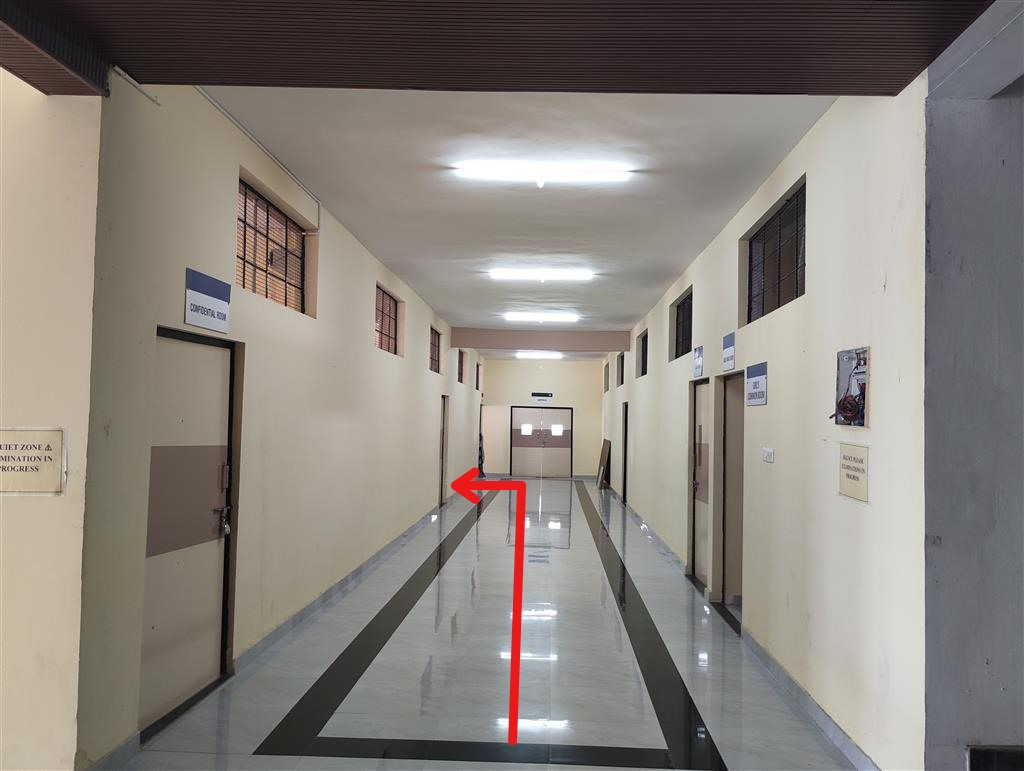
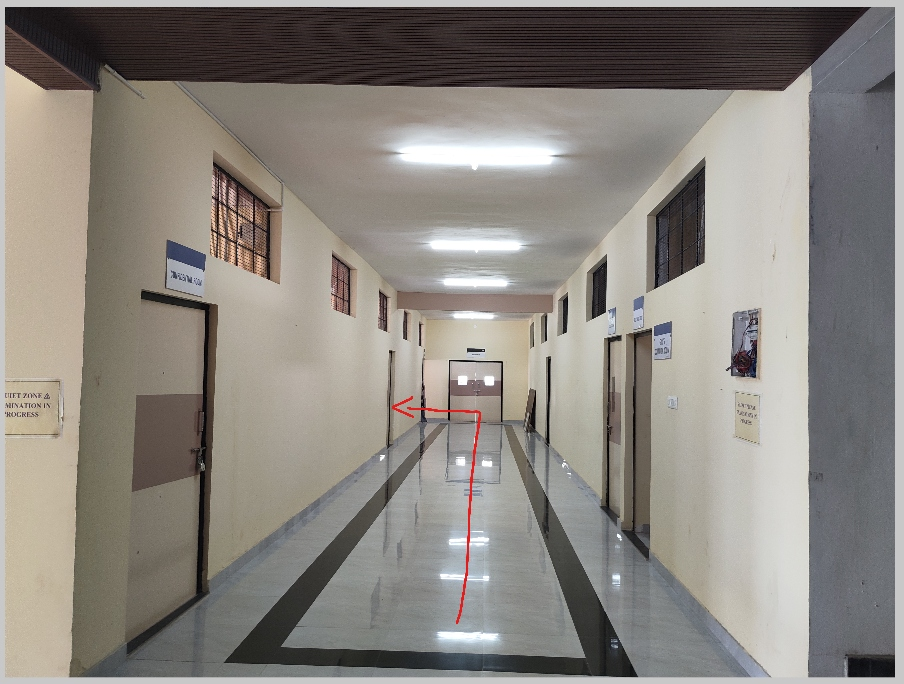
feat: add Maharaja Institute of Ayurveda Medical Sciences & Hospital walkthrough, update pharmacy corridor photos, and clean portal UI

diff --git a/index.html b/index.html
@@ -2002,24 +2002,7 @@
       </p>
     </div>
 
-    <!-- Universal Instant Teleport Search Hub -->
-    <div class="navigo-search-hub">
-      <div class="navigo-search-box">
-        <svg viewBox="0 0 24 24" class="navigo-search-icon" aria-hidden="true">
-          <path fill="currentColor" d="M15.5 14h-.79l-.28-.27A6.471 6.471 0 0 0 16 9.5 6.5 6.5 0 1 0 9.5 16c1.61 0 3.09-.59 4.23-1.57l.27.28v.79l5 4.99L20.49 19l-4.99-5zm-6 0C7.01 14 5 11.99 5 9.5S7.01 5 9.5 5 14 7.01 14 9.5 11.99 14 9.5 14z"/>
-        </svg>
-        <input
-          type="text"
-          id="portalSearchInput"
-          class="navigo-search-input"
-          placeholder="Search any room or lab campus-wide (e.g. 102, 205, Belaku, Board Room, CAD)..."
-          autocomplete="off"
-        />
-      </div>
 
-      <!-- Live Instant Autocomplete Dropdown Matrix -->
-      <div id="portalSearchDropdown" class="portal-suggest-dropdown" style="display: none;" role="listbox"></div>
-    </div>
 
     <!-- Navigation Mode Switcher Bar (3 Functional Views) -->
     <div class="navigo-mode-nav" role="tablist">
@@ -2041,15 +2024,7 @@
          VIEW 1: ACADEMIC WINGS WITH DIRECT FAST-LAUNCHERS
          ======================================================================== -->
     <div id="viewModeWings" class="nav-view-panel">
-      <!-- Wing Sub-filters -->
-      <div class="wings-filter-wrap" role="tablist" aria-label="Campus Building Categories">
-        <button type="button" class="wing-filter-chip active" data-portal-filter="all">All Wings (5)</button>
-        <button type="button" class="wing-filter-chip" data-portal-filter="engineering">Engineering Block (60)</button>
-        <button type="button" class="wing-filter-chip" data-portal-filter="mba">Department of MBA</button>
-        <button type="button" class="wing-filter-chip" data-portal-filter="mca">Department of MCA</button>
-        <button type="button" class="wing-filter-chip" data-portal-filter="bca">Department of BCA</button>
-        <button type="button" class="wing-filter-chip" data-portal-filter="pharmacy">Pharmacy &amp; Nursing</button>
-      </div>
+
 
       <div class="wings-grid" id="wingsGrid">
         <!-- 1. Engineering Academic Block -->
@@ -2096,15 +2071,7 @@
               Master of Business Administration block featuring Belaku (ಬೆಳಕು) auditorium, Centre for Future Skills, Board Room, faculty chambers, and smart lecture suites.
             </p>
 
-            <div class="wing-fast-actions-label">Direct Destination Teleport:</div>
-            <div class="wing-fast-chips">
-              <button type="button" class="wing-fast-chip primary-spot" data-direct-room="Belaku">Belaku (Auditorium)</button>
-              <button type="button" class="wing-fast-chip primary-spot" data-direct-room="MBA MCA Lab">MBA / MCA Lab (201)</button>
-              <button type="button" class="wing-fast-chip primary-spot" data-direct-room="Centre for Future Skills">Centre for Future Skills</button>
-              <button type="button" class="wing-fast-chip primary-spot" data-direct-room="2">Board Room (Room 2)</button>
-              <button type="button" class="wing-fast-chip" data-direct-room="1">Staff Room (Room 1)</button>
-              <button type="button" class="wing-fast-chip" data-direct-room="102">Room 102</button>
-            </div>
+
 
             <div class="wing-footer">
               <button type="button" class="wing-primary-btn" data-btn-college="mba">
@@ -2128,14 +2095,7 @@
               Master of Computer Applications division featuring modern lecture halls (MCA LH 1, LH 2, LH 3, LH 4), computing laboratories (MCA Lab 1), and software engineering studios.
             </p>
 
-            <div class="wing-fast-actions-label">Direct Destination Teleport:</div>
-            <div class="wing-fast-chips">
-              <button type="button" class="wing-fast-chip primary-spot" data-direct-room="MCA LH 1">MCA LH 1 (LH-I)</button>
-              <button type="button" class="wing-fast-chip primary-spot" data-direct-room="MCA LH 2">MCA LH 2 (LH-II)</button>
-              <button type="button" class="wing-fast-chip primary-spot" data-direct-room="MCA LH 3">MCA LH 3 (LH-III)</button>
-              <button type="button" class="wing-fast-chip primary-spot" data-direct-room="MCA LH 4">MCA LH 4 (LH-IV)</button>
-              <button type="button" class="wing-fast-chip primary-spot" data-direct-room="MCA Lab 1">MCA Lab 1</button>
-            </div>
+
 
             <div class="wing-footer">
               <button type="button" class="wing-primary-btn" data-btn-college="mca">
@@ -2159,23 +2119,7 @@
               Bachelor of Computer Applications featuring modern coding studios, web technology laboratories, and interactive lecture theaters.
             </p>
 
-            <div class="wing-fast-actions-label">Direct Destination Teleport:</div>
-            <div class="wing-fast-chips">
-              <button type="button" class="wing-fast-chip primary-spot" data-direct-room="BCA Lab 1 & 2">BCA Lab 1 &amp; 2</button>
-              <button type="button" class="wing-fast-chip primary-spot" data-direct-room="BCA 201">BCA Room 201</button>
-              <button type="button" class="wing-fast-chip primary-spot" data-direct-room="BCA 202">BCA Room 202</button>
-              <button type="button" class="wing-fast-chip primary-spot" data-direct-room="BCA 203">BCA Room 203</button>
-              <button type="button" class="wing-fast-chip primary-spot" data-direct-room="BCA 204">BCA Room 204</button>
-              <button type="button" class="wing-fast-chip primary-spot" data-direct-room="BCA 205">BCA Room 205</button>
-              <button type="button" class="wing-fast-chip primary-spot" data-direct-room="BCA 206">BCA Room 206</button>
-              <button type="button" class="wing-fast-chip primary-spot" data-direct-room="BCA 207">BCA Room 207</button>
-              <button type="button" class="wing-fast-chip primary-spot" data-direct-room="BCA 208">BCA Room 208</button>
-              <button type="button" class="wing-fast-chip primary-spot" data-direct-room="BCA 209">BCA Room 209</button>
-              <button type="button" class="wing-fast-chip primary-spot" data-direct-room="BCA 210">BCA Room 210</button>
-              <button type="button" class="wing-fast-chip primary-spot" data-direct-room="BCA 211">BCA Room 211</button>
-              <button type="button" class="wing-fast-chip" data-direct-college="bca">Web Tech Studios</button>
-              <button type="button" class="wing-fast-chip" data-direct-college="bca">Lecture Theaters</button>
-            </div>
+
 
             <div class="wing-footer">
               <button type="button" class="wing-primary-btn" data-btn-college="bca">
@@ -2199,44 +2143,7 @@
               Dedicated pharmaceutical block with formulation suites, organic chemistry research chambers, and pharmacognosy laboratories.
             </p>
 
-            <div class="wing-fast-actions-label">Direct Destination Teleport:</div>
-            <div class="wing-fast-chips">
-              <button type="button" class="wing-fast-chip primary-spot" data-direct-room="Pharmacy Administrative Block">Administrative Block</button>
-              <button type="button" class="wing-fast-chip primary-spot" data-direct-room="Pharmacy Principal Office">Principal Office</button>
-              <button type="button" class="wing-fast-chip primary-spot" data-direct-room="Pharmacy Vice Principal Office">Vice-Principal</button>
-              <button type="button" class="wing-fast-chip primary-spot" data-direct-room="Pharmacy Staff Room">Staff Room</button>
-              <button type="button" class="wing-fast-chip primary-spot" data-direct-room="Associate Professor Room">Associate Professor</button>
-              <button type="button" class="wing-fast-chip primary-spot" data-direct-room="Nursing Foundation Department">Nursing Foundation</button>
-              <button type="button" class="wing-fast-chip primary-spot" data-direct-room="AV Aids Lab">AV Aids Lab</button>
-              <button type="button" class="wing-fast-chip primary-spot" data-direct-room="Counselling Room">Counselling Room</button>
-              <button type="button" class="wing-fast-chip primary-spot" data-direct-room="SNA Room">SNA Room</button>
-              <button type="button" class="wing-fast-chip primary-spot" data-direct-room="Medical Surgical Nursing Department">Medical Surgical Nursing</button>
-              <button type="button" class="wing-fast-chip primary-spot" data-direct-room="OBG & Paediatric Nursing Department">OBG &amp; Paediatric</button>
-              <button type="button" class="wing-fast-chip primary-spot" data-direct-room="Pharmaceutical Chemistry-I Lab">Pharmaceutical Chemistry-I Lab</button>
-              <button type="button" class="wing-fast-chip primary-spot" data-direct-room="Pharmaceutical Chemistry Lab">Pharmaceutical Chemistry Lab</button>
-              <button type="button" class="wing-fast-chip primary-spot" data-direct-room="Pharmaceutical Microbiology Lab">Pharmaceutical Microbiology Lab</button>
-              <button type="button" class="wing-fast-chip primary-spot" data-direct-room="Pharmaceutical Analysis Lab">Pharmaceutical Analysis Lab</button>
-              <button type="button" class="wing-fast-chip primary-spot" data-direct-room="Human Anatomy & Physiology Lab">Human Anatomy &amp; Physiology Lab</button>
-              <button type="button" class="wing-fast-chip primary-spot" data-direct-room="Pharmacology Lab">Pharmacology Lab</button>
-              <button type="button" class="wing-fast-chip primary-spot" data-direct-room="Pharmaceutics-I Lab">Pharmaceutics-I Lab</button>
-              <button type="button" class="wing-fast-chip primary-spot" data-direct-room="Pharmacy Museum">Pharmacy Museum</button>
-              <button type="button" class="wing-fast-chip primary-spot" data-direct-room="Pharmacy Class Room 1">Pharmacy Class Room 1</button>
-              <button type="button" class="wing-fast-chip primary-spot" data-direct-room="Pharmacy Class Room 2">Pharmacy Class Room 2</button>
-              <button type="button" class="wing-fast-chip primary-spot" data-direct-room="Pharmacy Class Room 3">Pharmacy Class Room 3</button>
-              <button type="button" class="wing-fast-chip primary-spot" data-direct-room="Pharmacy Laboratory 3">Pharmacy Laboratory 3</button>
-              <button type="button" class="wing-fast-chip primary-spot" data-direct-room="Central Instrumentation Room">Central Instrumentation Room</button>
-              <button type="button" class="wing-fast-chip primary-spot" data-direct-room="Pharmaceutical Chemistry-II Lab">Pharmaceutical Chemistry-II Lab</button>
-              <button type="button" class="wing-fast-chip primary-spot" data-direct-room="Machine Room">Machine Room</button>
-              <button type="button" class="wing-fast-chip primary-spot" data-direct-room="Pharmaceutics Lab">Pharmaceutics Lab</button>
-              <button type="button" class="wing-fast-chip primary-spot" data-direct-room="Pharmacognosy-I Lab">Pharmacognosy-I Lab</button>
-              <button type="button" class="wing-fast-chip primary-spot" data-direct-room="Pharmaceutics-II Lab">Pharmaceutics-II Lab</button>
-              <button type="button" class="wing-fast-chip primary-spot" data-direct-room="Pharmacy Confidential Room">Confidential Room</button>
-              <button type="button" class="wing-fast-chip primary-spot" data-direct-room="Pharmacy Class Room 4">Pharmacy Class Room 4</button>
-              <button type="button" class="wing-fast-chip primary-spot" data-direct-room="Pharmacy 1st Sem Class Room">1st Sem Class Room</button>
-              <button type="button" class="wing-fast-chip primary-spot" data-direct-room="Pharmacy 2nd Sem Class Room">2nd Sem Class Room</button>
-              <button type="button" class="wing-fast-chip primary-spot" data-direct-room="Pharmacy Exam Hall 1">Pharmacy Exam Hall 1</button>
-              <button type="button" class="wing-fast-chip primary-spot" data-direct-room="Auditorium">Auditorium</button>
-            </div>
+
 
             <div class="wing-footer">
               <button type="button" class="wing-primary-btn" data-btn-college="pharmacy">
@@ -2615,7 +2522,7 @@
       </div>
 
       
-      <div class="quick-row" id="quickChipsRow"></div>
+
     </section>
 
     <section>
@@ -2732,7 +2639,7 @@
 
   <div class="toast-host" id="toastHost"></div>
 
-  <script src="rooms_data.js?v=20261109-18"></script>
-  <script type="module" src="app.js?v=20261109-18"></script>
+  <script src="rooms_data.js?v=20261109-19"></script>
+  <script type="module" src="app.js?v=20261109-19"></script>
 </body>
 </html>

diff --git a/rooms_data.js b/rooms_data.js
@@ -3736,5 +3736,40 @@ window.ROOMS_DATA = {
         ]
       }
     ]
+  },
+  "Maharaja Institute of Ayurveda Medical Sciences & Hospital": {
+    "name": "Maharaja Institute of Ayurveda Medical Sciences & Hospital",
+    "college": "Department of MBA",
+    "floor": "2nd Floor",
+    "dept": "Ayurveda Medical Sciences & Hospital",
+    "category": "Medical Institute / Hospital / Administrative Office",
+    "landmark": "MBA / MCA Block Upper Floor · Beside Upper Lift Landing",
+    "info": "Enter through the MBA & MCA block front entrance. Ascend the staircase to the upper floor landing past the elevator, and turn right into the Maharaja Institute of Ayurveda Medical Sciences & Hospital glass entrance doors.",
+    "thumbnail": "Rooms/Ayurveda Medical Sciences & Hospital/g.jpg",
+    "photos": [
+      "Rooms/Ayurveda Medical Sciences & Hospital/a.jpg",
+      "Rooms/Ayurveda Medical Sciences & Hospital/b.jpg",
+      "Rooms/Ayurveda Medical Sciences & Hospital/c.jpg",
+      "Rooms/Ayurveda Medical Sciences & Hospital/d.jpg",
+      "Rooms/Ayurveda Medical Sciences & Hospital/e.jpg",
+      "Rooms/Ayurveda Medical Sciences & Hospital/f.jpg",
+      "Rooms/Ayurveda Medical Sciences & Hospital/g.jpg"
+    ],
+    "accessPoints": [
+      {
+        "name": "MBA & MCA Main Entrance",
+        "info": "Enter through the MBA & MCA block front entrance. Ascend the staircase to the upper floor landing past the elevator, and turn right into the Maharaja Institute of Ayurveda Medical Sciences & Hospital glass entrance doors.",
+        "thumbnail": "Rooms/Ayurveda Medical Sciences & Hospital/a.jpg",
+        "photos": [
+          "Rooms/Ayurveda Medical Sciences & Hospital/a.jpg",
+          "Rooms/Ayurveda Medical Sciences & Hospital/b.jpg",
+          "Rooms/Ayurveda Medical Sciences & Hospital/c.jpg",
+          "Rooms/Ayurveda Medical Sciences & Hospital/d.jpg",
+          "Rooms/Ayurveda Medical Sciences & Hospital/e.jpg",
+          "Rooms/Ayurveda Medical Sciences & Hospital/f.jpg",
+          "Rooms/Ayurveda Medical Sciences & Hospital/g.jpg"
+        ]
+      }
+    ]
   }
 };

diff --git a/sw.js b/sw.js
@@ -1,9 +1,9 @@
-const CACHE_NAME = "navigo-v22";
+const CACHE_NAME = "navigo-v23";
 const PRECACHE_ASSETS = [
   "./",
   "index.html",
-  "app.js?v=20261109-18",
-  "rooms_data.js?v=20261109-18",
+  "app.js?v=20261109-19",
+  "rooms_data.js?v=20261109-19",
   "rooms_data.json",
   "logo.png",
   "icon-192.png",

diff --git a/app.js b/app.js
@@ -372,6 +372,7 @@ function showHomeView(pushHistory = true) {
 }
 
 function renderQuickRecents() {
+  return;
   const wrap = document.getElementById("quickChipsRow");
   if (!wrap) return;
 
